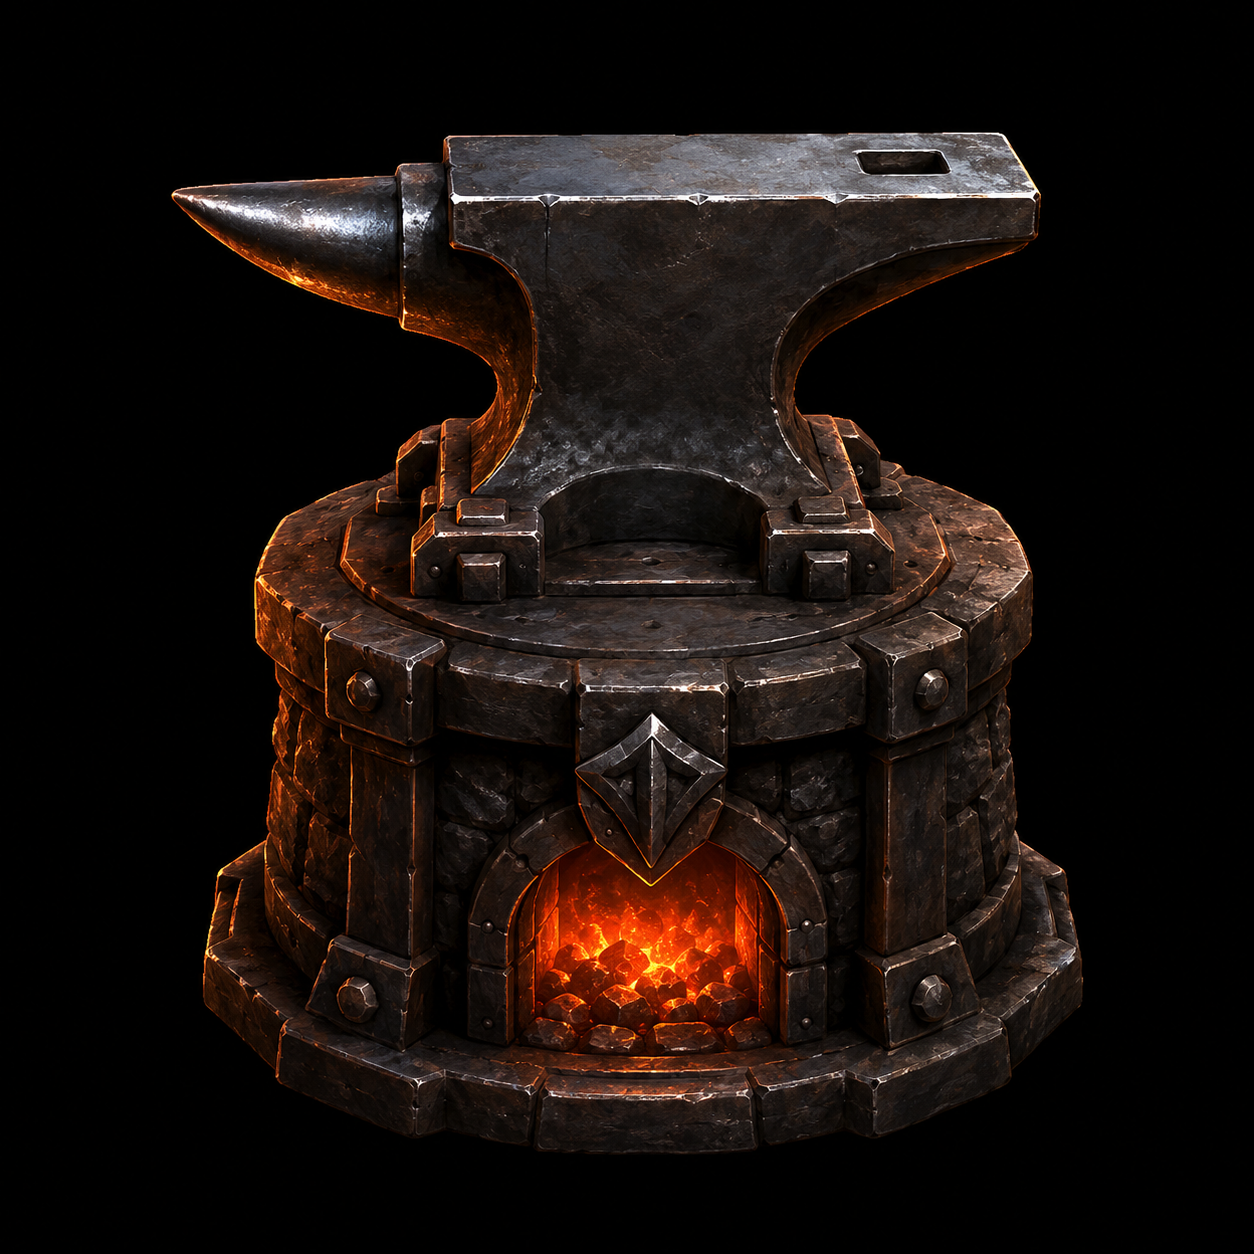
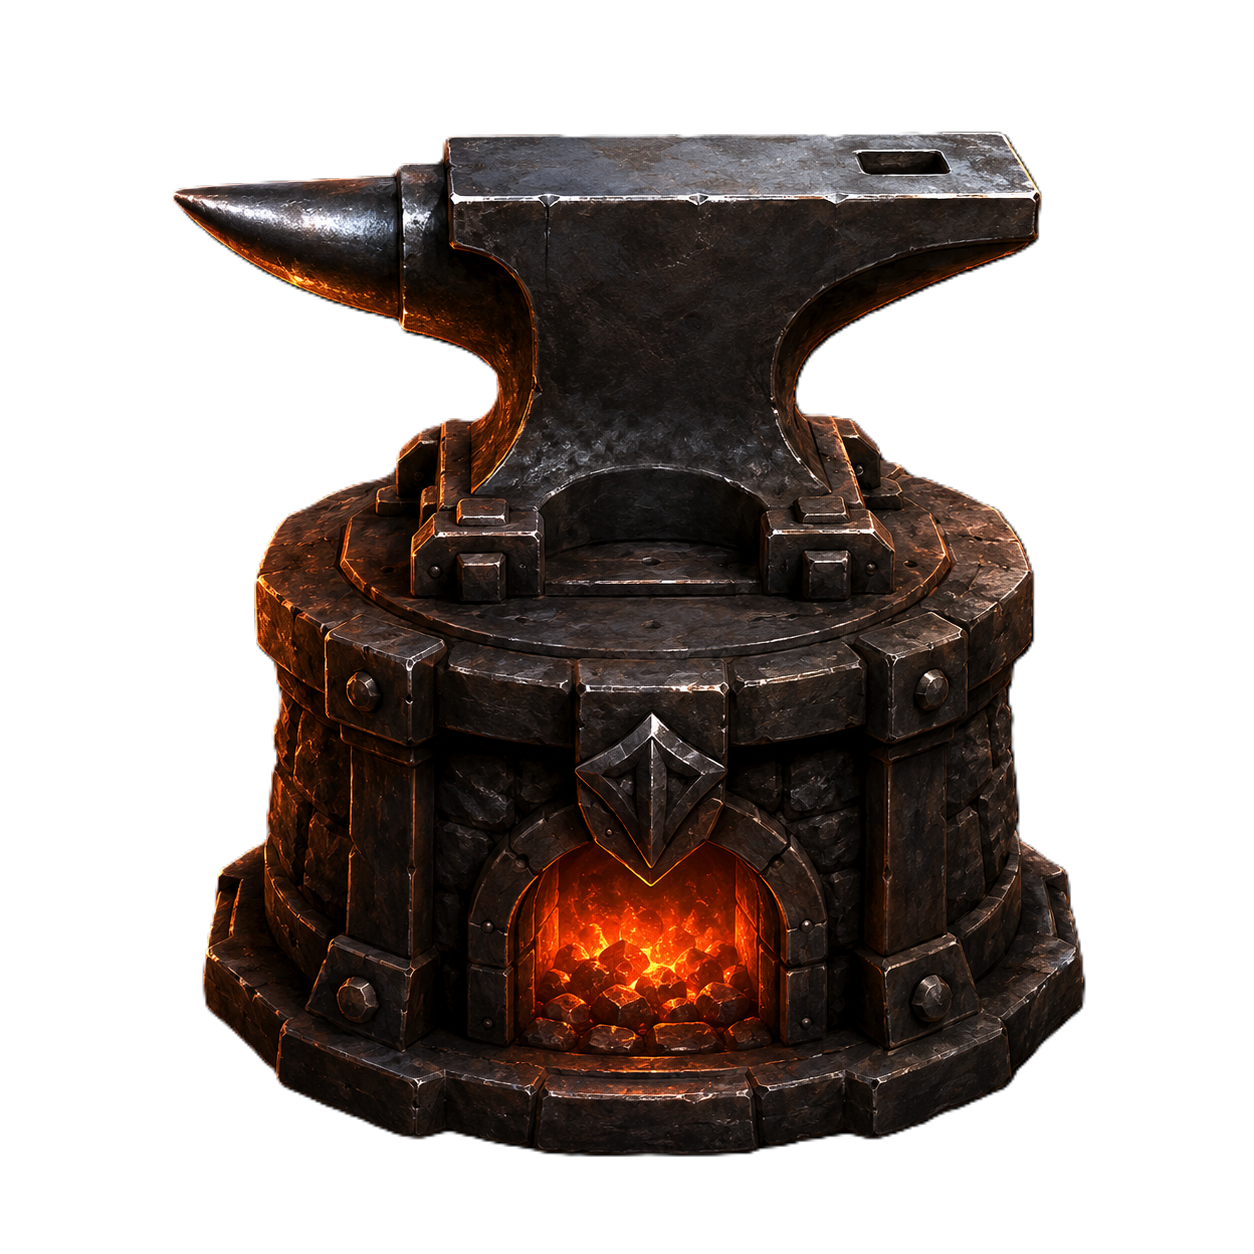
update forge hammer animation assets

diff --git a/src/App.css b/src/App.css
@@ -735,14 +735,27 @@ button {
   max-height: 62%;
   object-fit: contain;
   object-position: center;
-  transform: translate(-50%, -5%) rotate(-18deg);
   filter:
     drop-shadow(0 14px 12px rgba(0, 0, 0, 0.5))
     drop-shadow(0 0 10px rgba(255, 209, 102, 0.18));
 }
 
-.forge-anvil.is-forging .forge-hammer {
-  animation: hammerStrike 360ms ease-in-out 3;
+.forge-hammer-idle {
+  opacity: 1;
+  transform: translate(-50%, -5%) rotate(-12deg);
+}
+
+.forge-hammer-strike {
+  opacity: 0;
+  transform: translate(-50%, 21%) rotate(2deg) scale(1.02);
+}
+
+.forge-anvil.is-forging .forge-hammer-idle {
+  animation: hammerIdleStrike 360ms ease-in-out 3;
+}
+
+.forge-anvil.is-forging .forge-hammer-strike {
+  animation: hammerStrikeFrame 360ms ease-in-out 3;
 }
 
 .forge-spark {
@@ -1086,19 +1099,38 @@ button {
   font-weight: 900;
 }
 
-@keyframes hammerStrike {
+@keyframes hammerIdleStrike {
   0%,
   100% {
-    transform: translate(-50%, -8%) rotate(-20deg);
+    opacity: 1;
+    transform: translate(-50%, -8%) rotate(-12deg);
   }
-  34% {
-    transform: translate(-50%, 24%) rotate(8deg) scale(1.03);
+  26% {
+    opacity: 1;
+    transform: translate(-50%, -2%) rotate(-6deg) scale(1.02);
   }
-  44% {
-    transform: translate(-50%, 29%) rotate(10deg) scale(0.98);
+  35%,
+  50% {
+    opacity: 0;
+    transform: translate(-50%, 18%) rotate(1deg) scale(0.98);
   }
   68% {
-    transform: translate(-50%, -1%) rotate(-15deg);
+    opacity: 1;
+    transform: translate(-50%, -2%) rotate(-10deg);
+  }
+}
+
+@keyframes hammerStrikeFrame {
+  0%,
+  28%,
+  64%,
+  100% {
+    opacity: 0;
+  }
+  35%,
+  50% {
+    opacity: 1;
+    transform: translate(-50%, 21%) rotate(2deg) scale(1.02);
   }
 }
 

diff --git a/src/App.tsx b/src/App.tsx
@@ -944,7 +944,8 @@ function App() {
             </div>
             <div className={`forge-anvil forge-image-stage ${isForging ? 'is-forging' : ''}`} aria-hidden="true">
               <img className="forge-anvil-base" src="/assets/tcg/forge-anvil-base.png" alt="" />
-              <img className="forge-hammer" src="/assets/tcg/forge-hammer.png" alt="" />
+              <img className="forge-hammer forge-hammer-idle" src="/assets/tcg/forge-hammer.png" alt="" />
+              <img className="forge-hammer forge-hammer-strike" src="/assets/tcg/forge-hammer-strike.png" alt="" />
               <span className="forge-heat-core" />
               <span className="forge-glow" />
               <span className="forge-flash" />